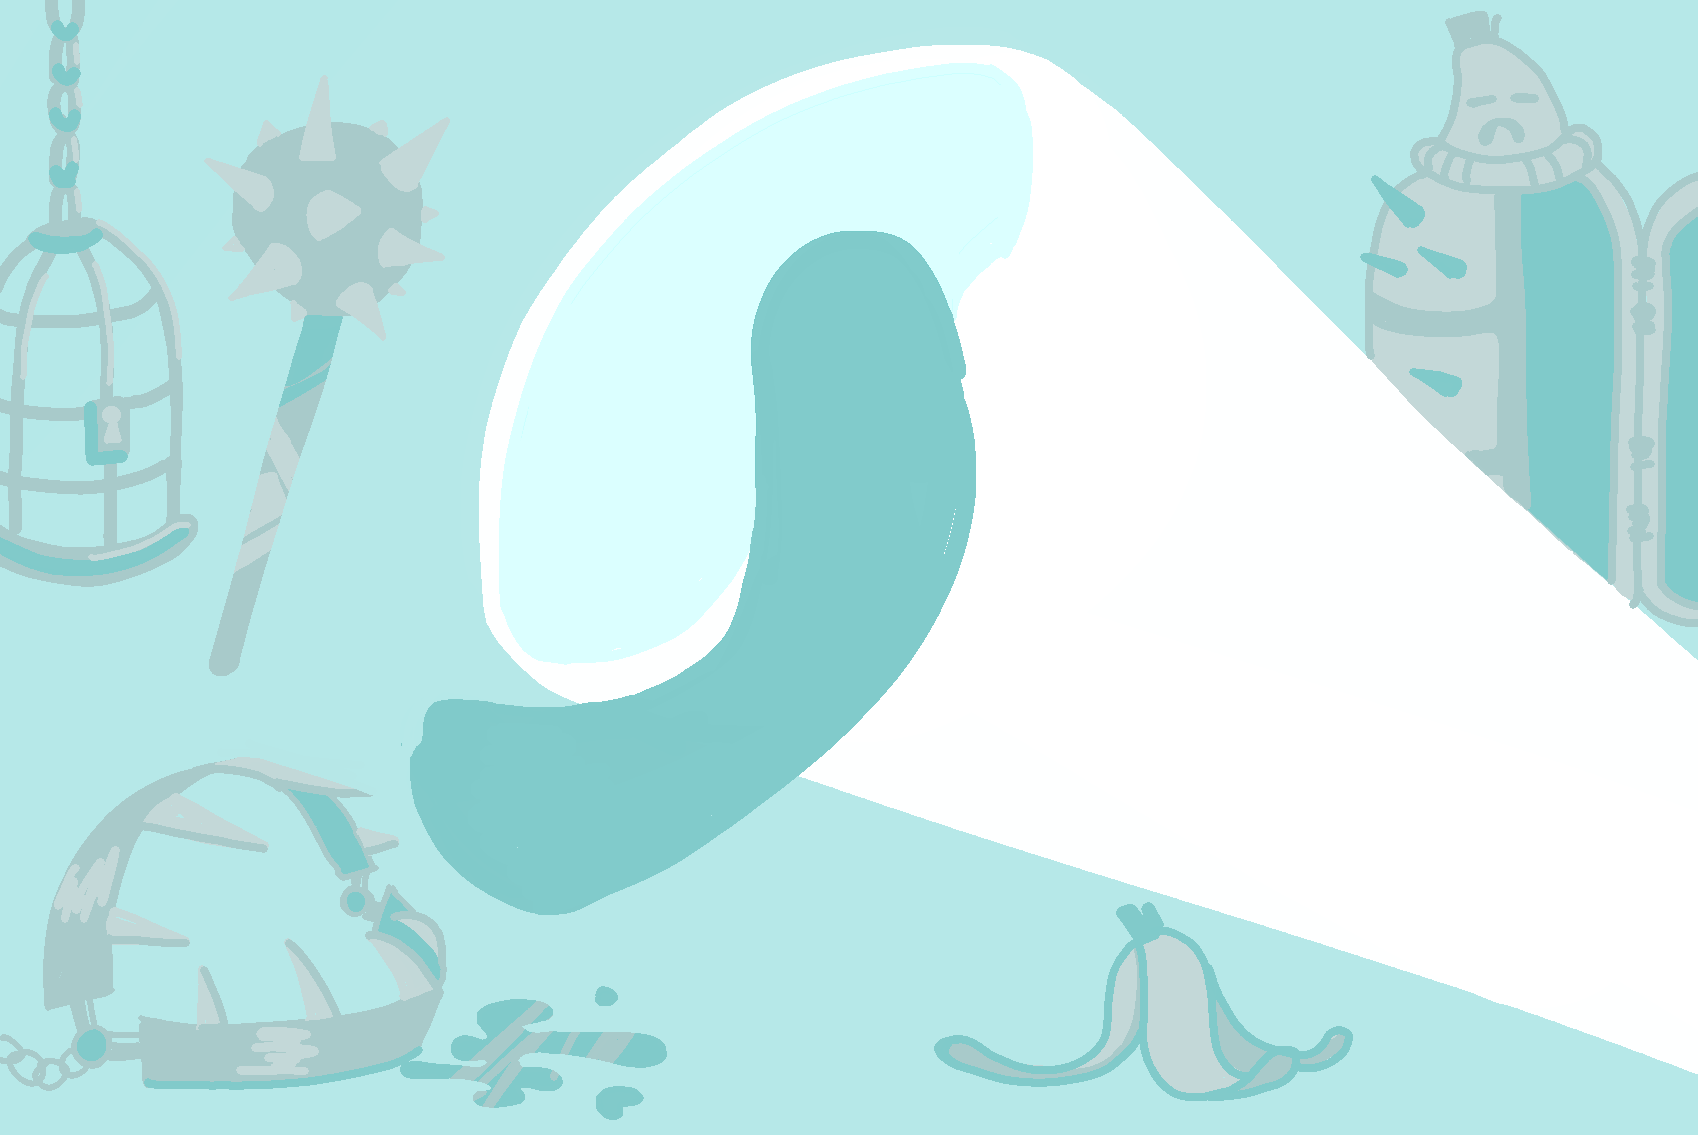
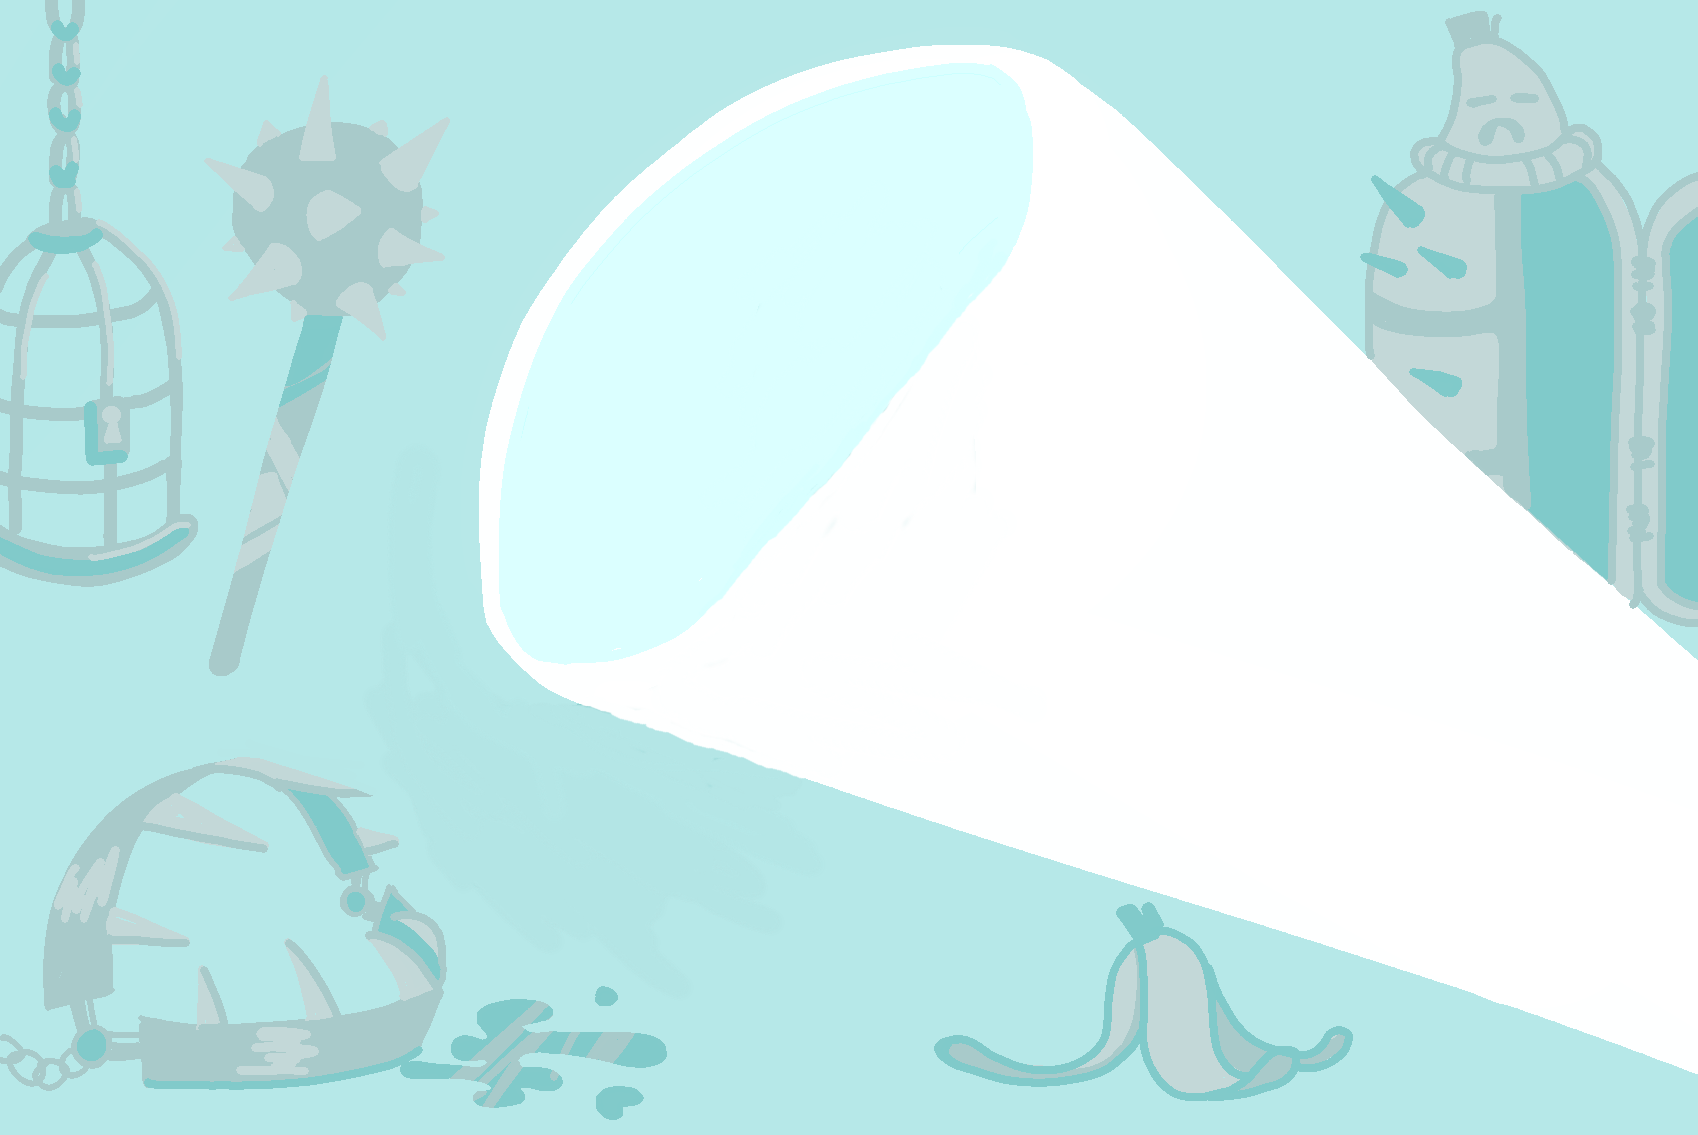
Wash:water droplets

Changed region(s): [[0.2185, 0.185, 0.5931, 0.8326]]

diff --git a/src/game/scenes/Wash.ts b/src/game/scenes/Wash.ts
@@ -6,6 +6,9 @@ export class Wash extends Scene {
         super('Wash');
     }
 
+
+
+
     preload() {
         this.load.image('banana', 'assets/Banana.png'); 
         this.load.image('background', 'assets/wash/Shower.png'); //replace w custom background
@@ -16,28 +19,37 @@ export class Wash extends Scene {
         this.load.image('washButton', 'assets/wash/WashButton.png');
 
         //load default face
+
+        //water stuff
+        this.load.image('puddle', 'assets/wash/puddle.png');
+        this.load.image('water', 'assets/wash/water.png');
     }
 
     create() {
         this.add.image(849, 567.5,'background'); 
+           
+    const puddle = this.add.image(849, 1000, 'puddle').setScale(0.65).setDepth(0).setVisible(false); 
 
-        const banana = this.add.image(849, 767.5, 'banana');  
-        banana.setScale(0.55)
-        banana.setInteractive();
+    const banana = this.add.image(849, 767.5, 'banana').setScale(0.55).setDepth(1).setInteractive();
+
+    const drop1 = this.add.image(1000, 630, 'water').setScale(0.1).setDepth(2).setVisible(false);
+    const drop2 = this.add.image(900, 950, 'water').setScale(0.1).setDepth(2).setVisible(false);
+   
+
 
 
         const washButton = this.add.image(792, 500, 'washButton');
         washButton.setScale(0.8)
-        washButton.setInteractive();
+     
 
         
 
 
-        //when the banana is clicked
-        washButton.on('pointerdown', () => {
+        //when the screen is clicked
+        this.input.once('pointerdown', () => {
             washButton.destroy();
 
-        const hose = this.add.image(1000, 900, 'hoseOff').setAlpha(1);
+        const hose = this.add.image(1000, 900, 'hoseOff').setAlpha(1).setDepth(3);
 
         //Hose onscreen
         this.tweens.add({
@@ -46,15 +58,55 @@ export class Wash extends Scene {
             y: 600,
             duration: 1000,
             ease: 'Power2',
+            
             onComplete: () => {
                 // Switch 
                 this.time.delayedCall(1200, () => {
                     hose.setTexture('hose');
                 });
 
+
+                
+
                  // Switch back 
                  this.time.delayedCall(3000, () => {
                     hose.setTexture('hoseOff');
+                    puddle.setVisible(true);
+                    drop1.setVisible(true);
+                    drop2.setVisible(true);
+
+                     // TODO:understand this!!
+                     const makeDropFall = (drop: GameObjects.Image) => {
+                        this.tweens.add({
+                            targets: drop,
+                            y: drop.y + 100, 
+                            alpha: 0, 
+                            duration: 3000,
+                            ease: 'Power2',
+                            onComplete: () => {
+                                drop.setAlpha(1);
+                                drop.setY(drop.y - 100);
+                                makeDropFall(drop); 
+                            }
+                        });
+                    };
+
+                    // drop animations
+                    makeDropFall(drop1);
+                    makeDropFall(drop2);
+
+                                    
+                    const expression = this.add.sprite(960, 767.5, 'blinking_sheet').setFrame(0).setScale(1.6).setDepth(1);
+
+                    this.anims.create({
+                        key: 'blink',
+                        frames: this.anims.generateFrameNumbers('blinking_sheet', { frames: [0, 1, 2] }),
+                        frameRate: 1,
+                        repeat: -1
+                    });
+
+                    expression.play('blink', true);
+
 
                     this.time.delayedCall(1000, () => {
                         //Hose offscreen

diff --git a/src/game/scenes/Peel.ts b/src/game/scenes/Peel.ts
@@ -14,8 +14,8 @@ export class Peel extends Scene {
         
      
         this.load.spritesheet('peel', 'assets/peel/peel.png', { 
-            frameWidth: 666, 
-            frameHeight: 375  
+            frameWidth: 1698, 
+            frameHeight: 1135 
         });
     }
 
@@ -30,9 +30,12 @@ export class Peel extends Scene {
         });
 
         
-        const peelSprite = this.add.sprite(866, 500, 'peel'); //TODO: Fix Positioning
+        const peelSprite = this.add.sprite(823, 535, 'peel'); //TODO: Fix Positioning
+        peelSprite.setScale(0.9);
         peelSprite.play('peelAnim'); 
-        peelSprite.setScale(4);  
+         
+
+       
 
 
    
